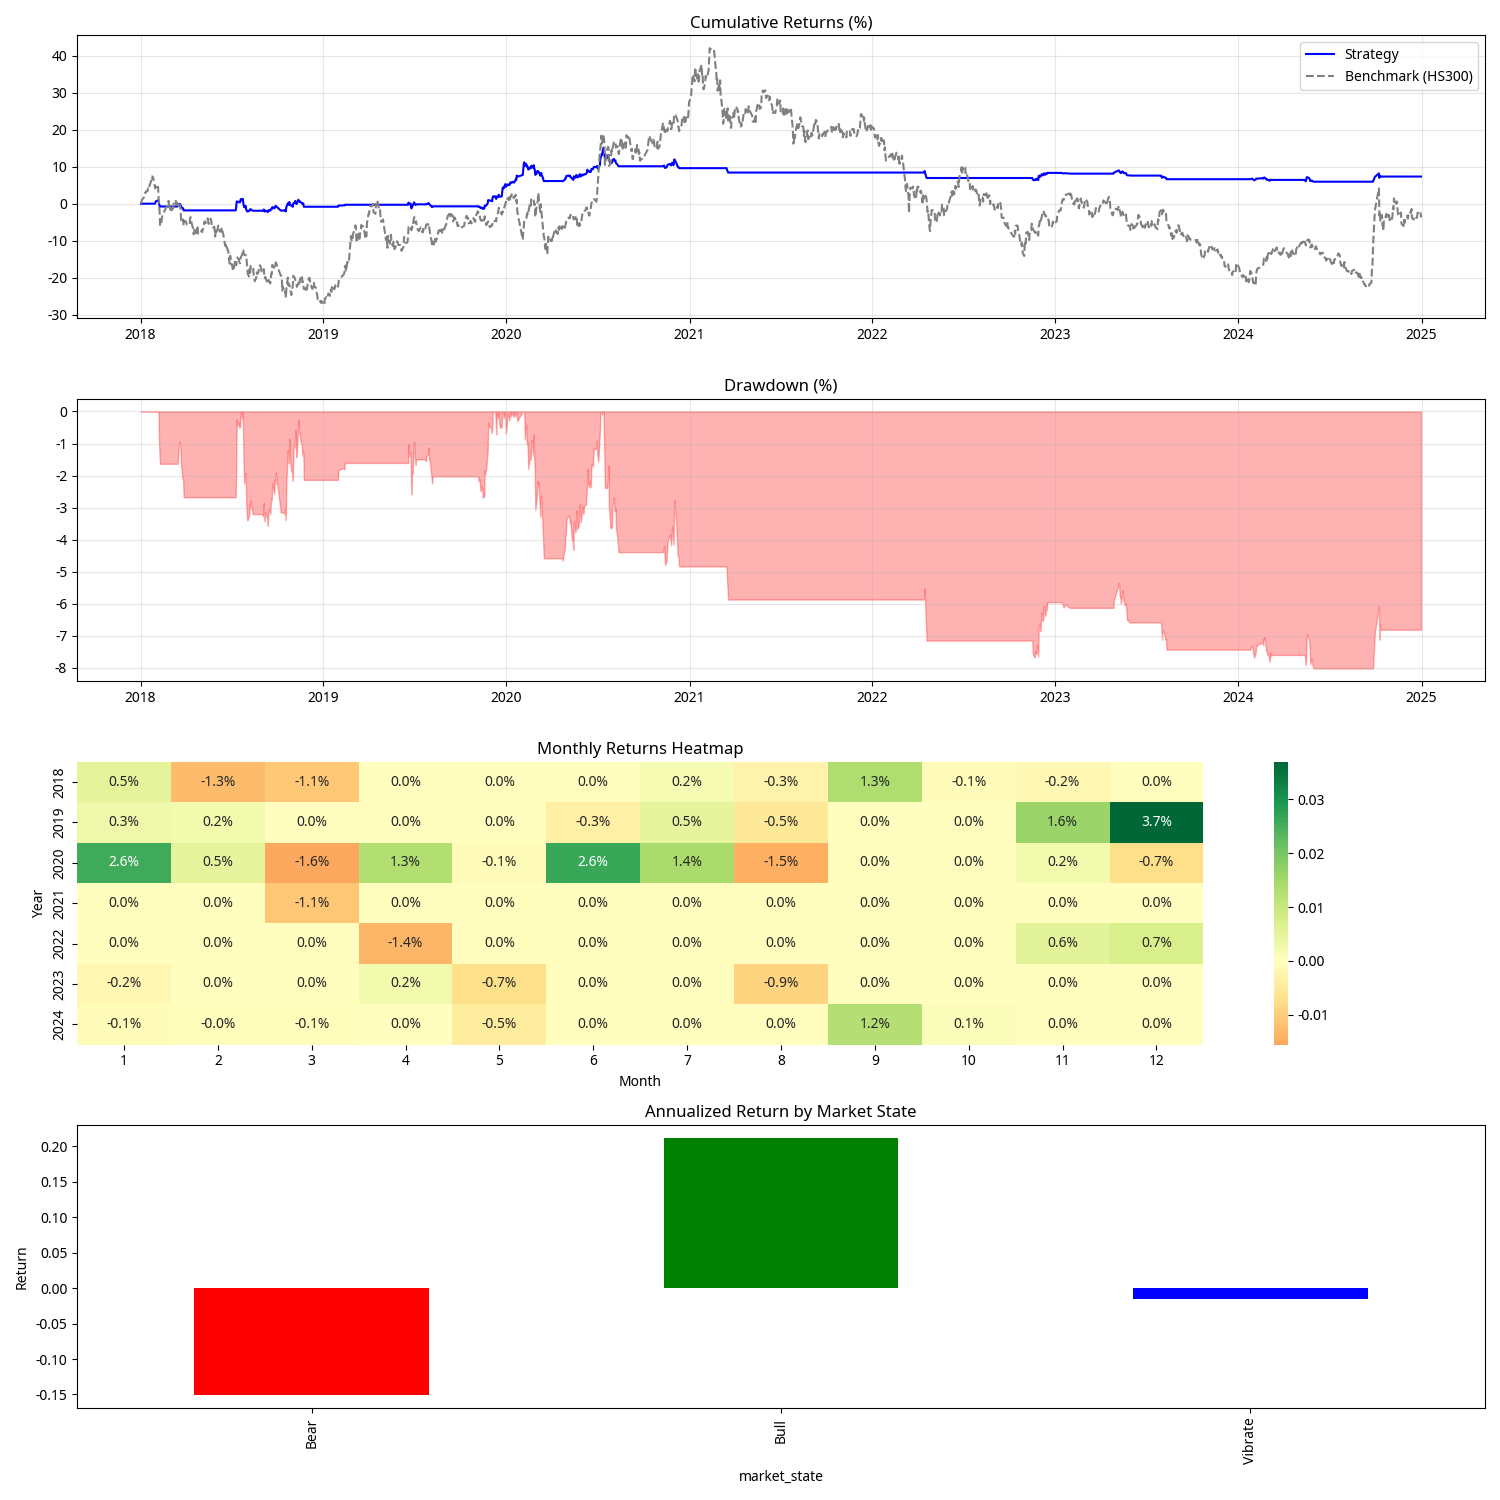
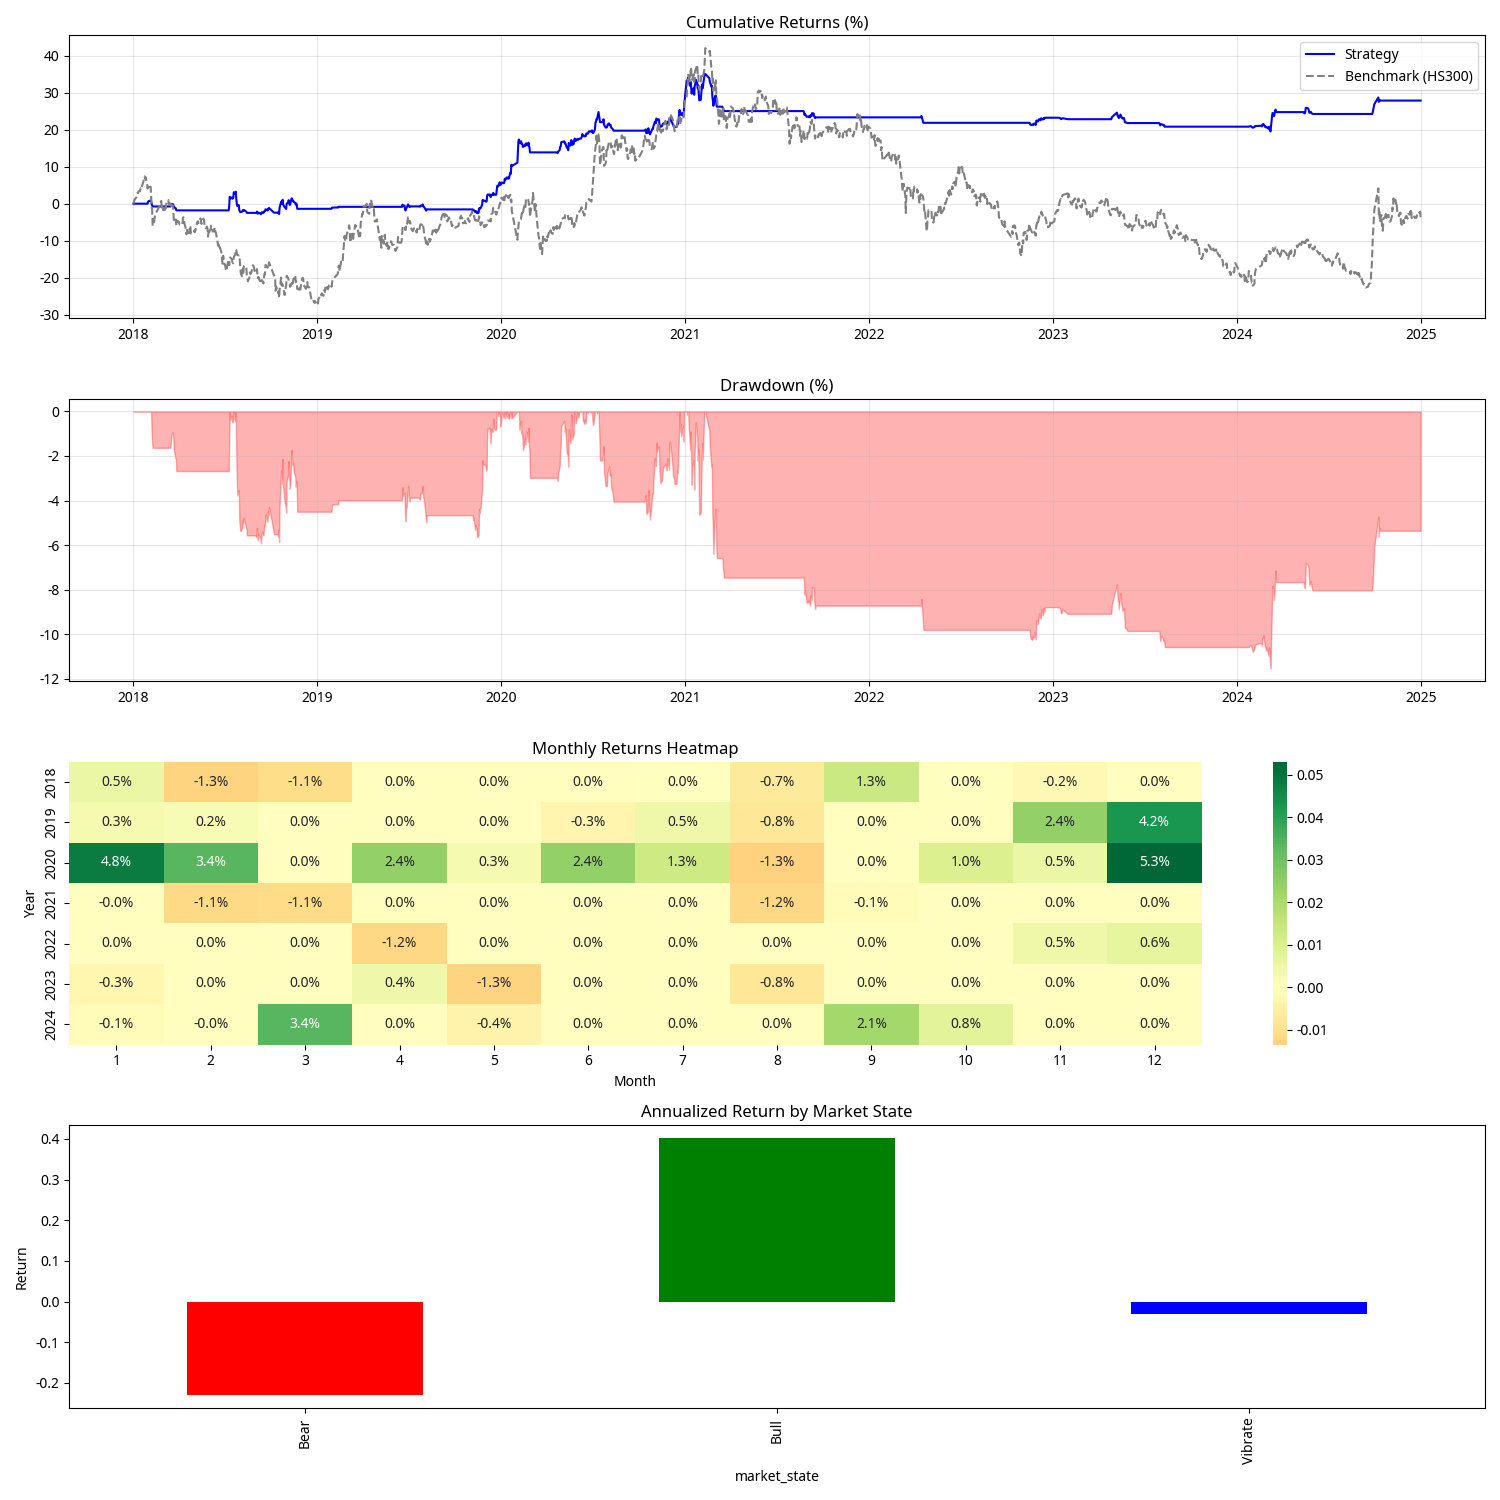
Optimize position sizing with dynamic caps and market regime filter

diff --git a/quant_sim/portfolio.py b/quant_sim/portfolio.py
@@ -3,7 +3,8 @@ from database import Database
 from datetime import datetime, timedelta
 import logging
 import math
-import utils
+import pandas as pd
+import numpy as np
 
 class PortfolioManager:
     def __init__(self, config_path="config.yaml", db_path="quant_sim.db"):
@@ -12,10 +13,14 @@ class PortfolioManager:
         
         self.db = Database(db_path)
         self.trading_config = self.config["trading"]
+        self.position_sizing_config = self.config.get("position_sizing", {})
+        self.market_regime_config = self.config.get("market_regime_filter", {})
         
         # Initialize account
         self.account = self.db.get_account(self.trading_config["initial_capital"])
         self.sync_total_assets()
+        
+        self.market_regime = "range_bound" # Default market regime
 
     def sync_total_assets(self):
         """同步计算总资产（现金 + 股票市值）"""
@@ -36,6 +41,51 @@ class PortfolioManager:
             if sym in market_data_dict:
                 self.db.update_position_price(sym, market_data_dict[sym])
         self.sync_total_assets()
+
+    def set_market_regime(self, regime):
+        self.market_regime = regime
+
+    def _get_current_total_position_cap(self):
+        """根据市场状态获取当前总仓位上限"""
+        if not self.market_regime_config.get("enabled", False):
+            return 1.0 # 如果未启用市场状态过滤，则默认为100%仓位
+
+        if self.market_regime == "bull":
+            return self.market_regime_config.get("bull_position_cap", 1.0)
+        elif self.market_regime == "bear":
+            return self.market_regime_config.get("bear_position_cap", 0.3)
+        elif self.market_regime == "range_bound":
+            return self.market_regime_config.get("range_bound_position_cap", 0.6)
+        return 1.0 # 默认
+
+    def _calculate_position_size(self, symbol, price):
+        """计算单个股票的仓位大小"""
+        total_assets = self.account["total_assets"]
+        current_total_position_cap = self._get_current_total_position_cap()
+        current_positions = self.db.get_positions()
+        current_positions_value = sum(p["quantity"] * p["current_price"] for p in current_positions)
+
+        # 可用于新开仓的最大资金 (考虑总仓位上限)
+        max_investable_capital_overall = total_assets * current_total_position_cap - current_positions_value
+        if max_investable_capital_overall <= 0:
+            return 0
+
+        # 单票上限
+        max_single_position_pct = self.position_sizing_config.get("max_single_position", 0.25)
+        max_single_position_value = total_assets * max_single_position_pct
+        
+        # 简化为：每次买入不超过单票上限，且不超过总仓位上限允许的剩余空间
+        intended_amount = min(max_investable_capital_overall, max_single_position_value)
+        
+        # 确保买入金额不超过可用现金
+        intended_amount = min(intended_amount, self.account["balance"])
+
+        if intended_amount <= 0:
+            return 0
+            
+        # A股买入必须是100股的整数倍
+        quantity = int(intended_amount / price // 100 * 100)
+        return quantity
 
     def get_lock_status(self, position, now=None):
         if now is None:
@@ -131,7 +181,7 @@ class PortfolioManager:
 
         return False, None
 
-    def buy(self, symbol, name, price, position_pct, target_price, stop_loss_price, reason, trade_time=None):
+    def buy(self, symbol, name, price, reason, trade_time=None):
         """执行买入操作"""
         # 检查是否已持仓
         positions = {p["symbol"]: p for p in self.db.get_positions()}
@@ -139,19 +189,11 @@ class PortfolioManager:
             logging.warning(f"[{symbol}] 已在持仓中，跳过买入。")
             return False
 
-        # 计算可用资金与买入数量
-        available_cash = self.account["balance"]
-        total_assets = self.account["total_assets"]
-        
-        # 按总资产的比例计算打算买入的金额
-        intended_amount = total_assets * position_pct
-        if intended_amount > available_cash:
-            intended_amount = available_cash
-            
-        # A股买入必须是100股的整数倍
-        quantity = int(intended_amount / price // 100 * 100)
+        # 计算建议买入数量
+        quantity = self._calculate_position_size(symbol, price)
+
         if quantity == 0:
-            logging.warning(f"[{symbol}] 可用资金不足以买入100股。")
+            logging.warning(f"[{symbol}] 仓位管理限制，无法买入。")
             return False
 
         # 计算费用（买入只有佣金，无印花税）
@@ -160,10 +202,11 @@ class PortfolioManager:
         commission = max(commission, 5.0)
         total_cost = price * quantity + commission
 
-        if total_cost > available_cash:
-            # 重新调整数量
-            quantity -= 100
+        if total_cost > self.account["balance"]:
+            # 重新调整数量以适应可用资金
+            quantity = int((self.account["balance"] - 5) / price // 100 * 100) # 预留5元佣金
             if quantity <= 0:
+                logging.warning(f"[{symbol}] 可用资金不足以买入100股。")
                 return False
             commission = max(price * quantity * self.trading_config["commission_rate"], 5.0)
             total_cost = price * quantity + commission
@@ -173,7 +216,10 @@ class PortfolioManager:
         trade_timestamp = trade_time.isoformat() if trade_time else None
         self.db.execute_trade(symbol, name, "BUY", price, quantity, commission, reason, timestamp=trade_timestamp)
         self.db.update_position(
-            symbol, name, quantity, price, price, target_price, stop_loss_price, bought_at=trade_timestamp
+            symbol, name, quantity, price, price, 
+            self.trading_config.get("target_return", 0.15), 
+            self.trading_config.get("stop_loss", -0.05), 
+            bought_at=trade_timestamp
         )
         self.sync_total_assets()
         

diff --git a/quant_sim/backtest.py b/quant_sim/backtest.py
@@ -84,6 +84,35 @@ class HistoricalBacktester:
         candidates.sort(key=lambda x: x["momentum"], reverse=True)
         return candidates[0]
 
+    def _detect_market_regime(self, current_date: datetime, benchmark_df: pd.DataFrame) -> str:
+        """根据基准指数表现判断市场状态"""
+        if benchmark_df.empty:
+            return "range_bound"
+
+        # 考虑过去一段时间的基准收益率
+        lookback_period = 60  # 例如，看过去60天的表现
+        start_date = current_date - timedelta(days=lookback_period)
+        recent_benchmark = benchmark_df[(benchmark_df["date"] >= start_date) & (benchmark_df["date"] <= current_date)]
+
+        if len(recent_benchmark) < lookback_period / 2:
+            return "range_bound"
+
+        # 计算这段时间的累计收益率
+        initial_price = recent_benchmark.iloc[0]["close"]
+        final_price = recent_benchmark.iloc[-1]["close"]
+        cumulative_return = (final_price / initial_price) - 1
+
+        # 简单判断：
+        # 牛市：累计收益率 > 5%
+        # 熊市：累计收益率 < -5%
+        # 震荡市：介于两者之间
+        if cumulative_return > 0.05:
+            return "bull"
+        elif cumulative_return < -0.05:
+            return "bear"
+        else:
+            return "range_bound"
+
     def run(self):
         df = self._load_data()
         benchmark_df = self._load_benchmark()
@@ -91,7 +120,6 @@ class HistoricalBacktester:
             logging.warning("历史行情数据为空，跳过回测。")
             return
 
-        position_pct = float(self.backtest_cfg.get("position_pct", 0.3))
         target_return = float(self.trading_cfg.get("target_return", 0.15))
         stop_loss_pct = abs(float(self.trading_cfg.get("stop_loss", -0.05)))
         
@@ -105,7 +133,11 @@ class HistoricalBacktester:
             day_slice = df[df["date"].dt.date == day]
             day_prices = {r["symbol"]: float(r["close"]) for _, r in day_slice.iterrows()}
 
-            # 1. 更新价格并处理卖出
+            # 1. 更新市场状态
+            market_regime = self._detect_market_regime(now, benchmark_df)
+            self.portfolio.set_market_regime(market_regime)
+
+            # 2. 更新价格并处理卖出
             self.portfolio.update_market_prices(day_prices)
             
             # 模拟卖出滑点
@@ -117,7 +149,7 @@ class HistoricalBacktester:
             
             exit_actions = self.portfolio.process_exits(now=now)
             
-            # 2. 记录每日资产
+            # 3. 记录每日资产
             acc = self.portfolio.db.get_account()
             self.equity_curve.append({
                 "date": day,
@@ -133,18 +165,18 @@ class HistoricalBacktester:
                     "close": b_val.iloc[0]["close"]
                 })
 
-            # 3. 检查买入门禁
+            # 4. 检查买入门禁
             positions = self.portfolio.db.get_positions()
             if self.risk_gate.buy_blocked_reason(None, len(positions)):
                 continue
 
-            # 4. 寻找候选标的
+            # 5. 寻找候选标的
             history_window = df[df["date"].dt.date <= day]
             candidate = self._pick_candidate(history_window, day_slice)
             if not candidate:
                 continue
 
-            # 5. 执行买入（含滑点）
+            # 6. 执行买入（含滑点），position_pct 不再直接传递
             buy_price = candidate["price"] * (1 + slippage)
             target_price = buy_price * (1 + target_return)
             stop_loss_price = buy_price * (1 - stop_loss_pct)
@@ -153,9 +185,6 @@ class HistoricalBacktester:
                 symbol=candidate["symbol"],
                 name=candidate["name"],
                 price=buy_price,
-                position_pct=position_pct,
-                target_price=target_price,
-                stop_loss_price=stop_loss_price,
                 reason=f"Momentum {candidate['momentum']:.2%}",
                 trade_time=now,
             )
